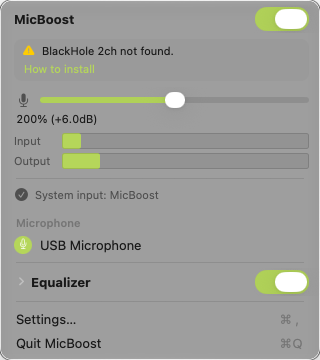
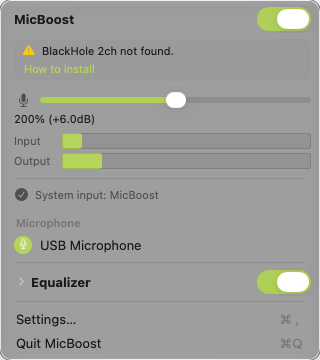
Capture the menu without a focused field
The open menu handed the keyboard to its first text field, so the
screenshot showed a focus ring and selected text on the first EQ
frequency field. The helper now resigns the first responder before the
capture and the renders are regenerated.

diff --git a/Sources/render-screenshots/main.swift b/Sources/render-screenshots/main.swift
@@ -112,6 +112,11 @@ enum CaptureError: Error { case noMenuWindow, emptyCapture }
         configuration.width = Int(target.frame.width * scale)
         configuration.height = Int(target.frame.height * scale)
         configuration.showsCursor = false
+        // The menu hands the keyboard to its first text field, which would be captured with a
+        // focus ring and selected text; no field is left as first responder (docs/ui.md
+        // "Renderização e verificação").
+        popup.makeFirstResponder(nil)
+        window.makeFirstResponder(nil)
         let image = try await SCScreenshotManager.captureImage(
             contentFilter: filter, configuration: configuration)
         guard let content = window.contentView else { throw CaptureError.noMenuWindow }

diff --git a/docs/ui.md b/docs/ui.md
@@ -154,7 +154,7 @@ O painel é um menu de verdade, então a imagem que importa é a que o WindowSer
 
 A janela de ajustes continua renderizada fora da tela com `NSHostingView.cacheDisplay`, porque não há menu a compor e os controles SwiftUI são AppKit por baixo. `ImageRenderer` não rasteriza controles AppKit.
 
-O menu real é capturado como o sistema o desenha, incluindo material, cantos, títulos, marcações e atalhos. O auxiliar roda dentro do laço do app, com janela key e app ativo, para que os controles nativos (switch, sliders) sejam desenhados no estado ativo; a captura acontece a partir do laço de tracking do menu, que é o único momento em que a janela existe. O executável do auxiliar fixa o locale a partir do idioma resolvido pelo catálogo (`UILanguage.locale`: en → `en_US`, pt-BR → `pt_BR`), para que os números das capturas acompanhem o texto; as views AppKit formatam números com `AppModel.formatLocale`, que o auxiliar fixa no mesmo locale.
+O menu real é capturado como o sistema o desenha, incluindo material, cantos, títulos, marcações e atalhos. Antes da captura o auxiliar solta o foco de qualquer campo do menu (`makeFirstResponder(nil)`), para nenhum campo aparecer com anel de foco e texto selecionado. O auxiliar roda dentro do laço do app, com janela key e app ativo, para que os controles nativos (switch, sliders) sejam desenhados no estado ativo; a captura acontece a partir do laço de tracking do menu, que é o único momento em que a janela existe. O executável do auxiliar fixa o locale a partir do idioma resolvido pelo catálogo (`UILanguage.locale`: en → `en_US`, pt-BR → `pt_BR`), para que os números das capturas acompanhem o texto; as views AppKit formatam números com `AppModel.formatLocale`, que o auxiliar fixa no mesmo locale.
 
 O app consulta snapshots de estado a 1 Hz; os medidores têm tarefa separada de 20 Hz, cancelada ao fechar o painel. A expansão do EQ fica em `UserDefaults.eqExpanded`. A validação manual de VoiceOver, contraste e preferências de acessibilidade está pendente.
 

diff --git a/docs/testing.md b/docs/testing.md
@@ -295,3 +295,11 @@ montado pelo `PanelMenuController` com o mesmo estado de exemplo, então mostra 
 nativos, o selo da fonte selecionada, os atalhos ⌘, e ⌘Q e as insets medidas do menu. Os
 itens de view alinham com o título dos itens nativos. `settings-*` continua vindo de
 `NSHostingView.cacheDisplay`: não há menu a compor e os controles SwiftUI são AppKit por baixo.
+
+Reteste do menu (2026-11-04): o medidor é exibição pura — `hitTest` devolve `nil`, `acceptsFirstResponder`
+é falso e o `mouseDown` é inerte —, e o valor de ganho virou rótulo somente leitura, sem campo nem ação de
+clique; o ganho continua pelo slider e pelas setas (0,5 dB, 1 dB com ⌥). As capturas `eq-*`, `panel-*` e
+`error-*` foram regeradas sem anel de foco e sem texto selecionado no primeiro campo de frequência, porque o
+auxiliar solta o primeiro respondedor antes da captura. `swift build`, `swift test` (109 testes) e
+`swift format lint --strict` passam; o arrasto do medidor e o clique no valor de ganho no menu real ficam para
+a verificação manual do mantenedor.
